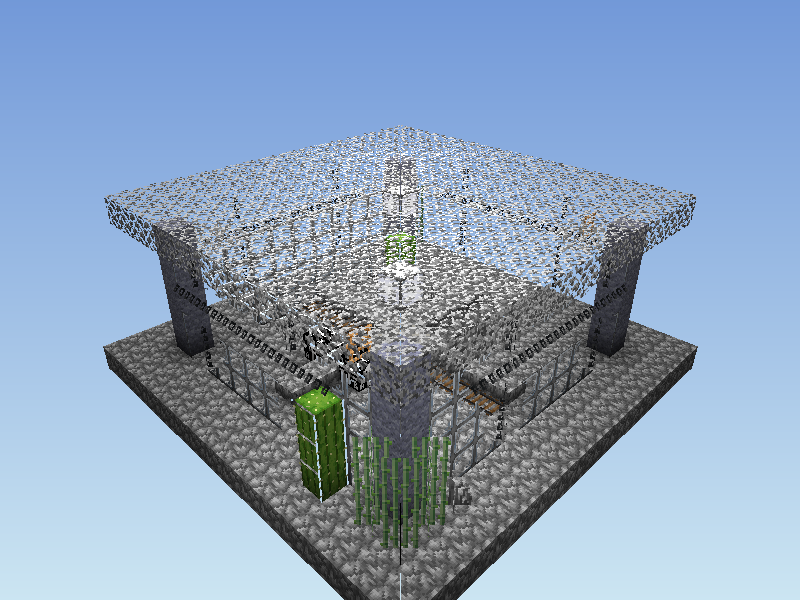
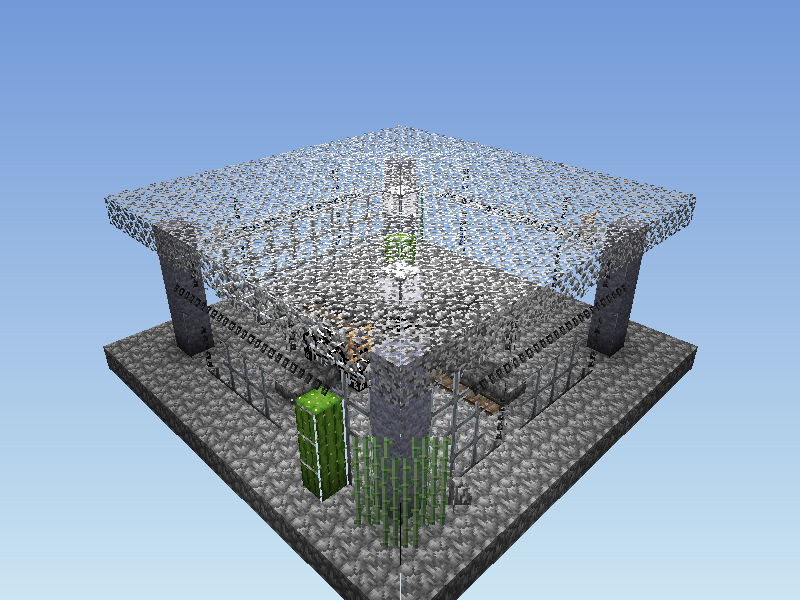
Slab top lighting from own voxel.

Changed region(s): [[0.4062, 0.48, 0.6562, 0.66], [0.3438, 0.57, 0.4375, 0.66]]

diff --git a/src/mesh.rs b/src/mesh.rs
@@ -981,10 +981,12 @@ pub fn mesh_chunk_into<B: Block>(
                     // Compute AO and smooth light for visible faces.
                     if B::Light::ENABLED {
                         if let Some(ref mut e) = entry {
-                            // Facades are inset into the block, so sample
-                            // AO/light at the block's own plane rather
-                            // than the neighbor's.
-                            let sample_idx = if is_facade { idx } else { n_idx };
+                            // Faces inset into the block sample AO/light
+                            // at the block's own plane rather than the
+                            // neighbor's.
+                            let is_inset_face = is_facade
+                                || matches!(shape, Shape::Slab(info) if face.axis() == info.face.axis() && face != info.face);
+                            let sample_idx = if is_inset_face { idx } else { n_idx };
                             let (ao, light) = compute_ao_light(
                                 data,
                                 sample_idx,
